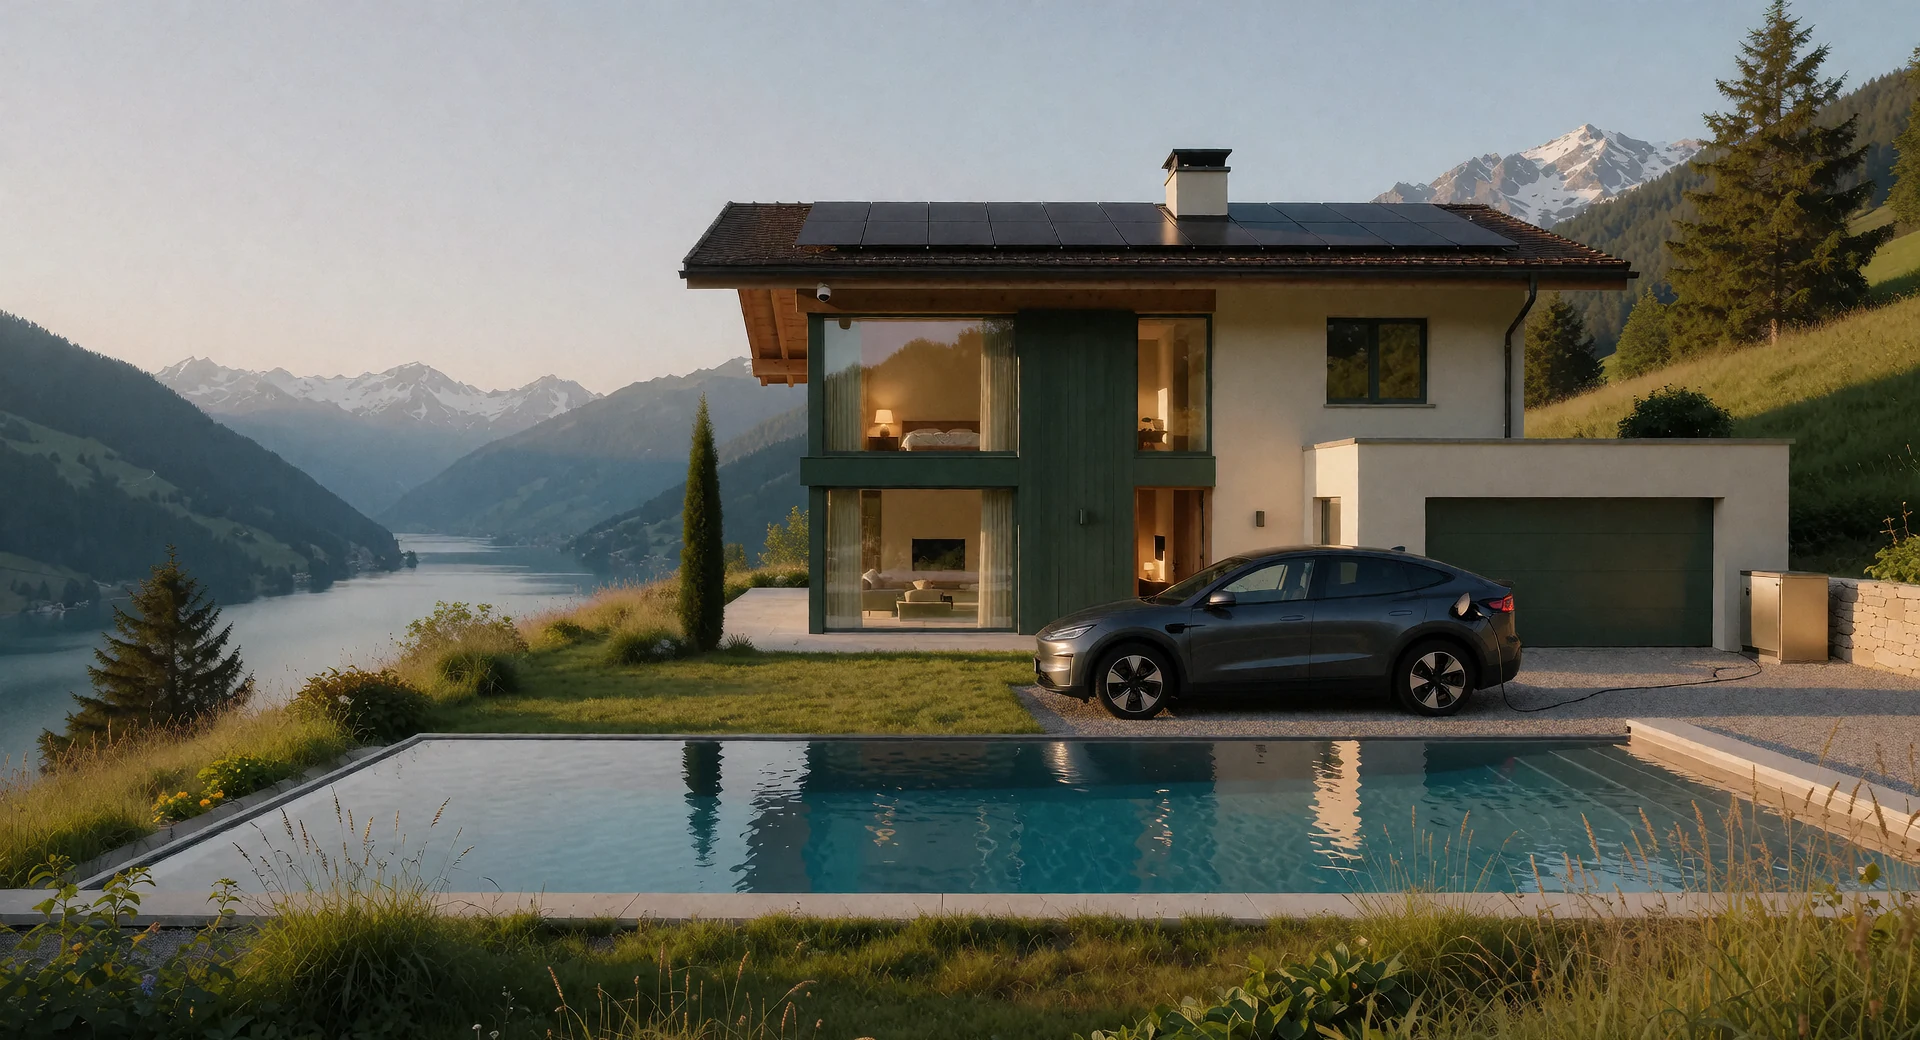
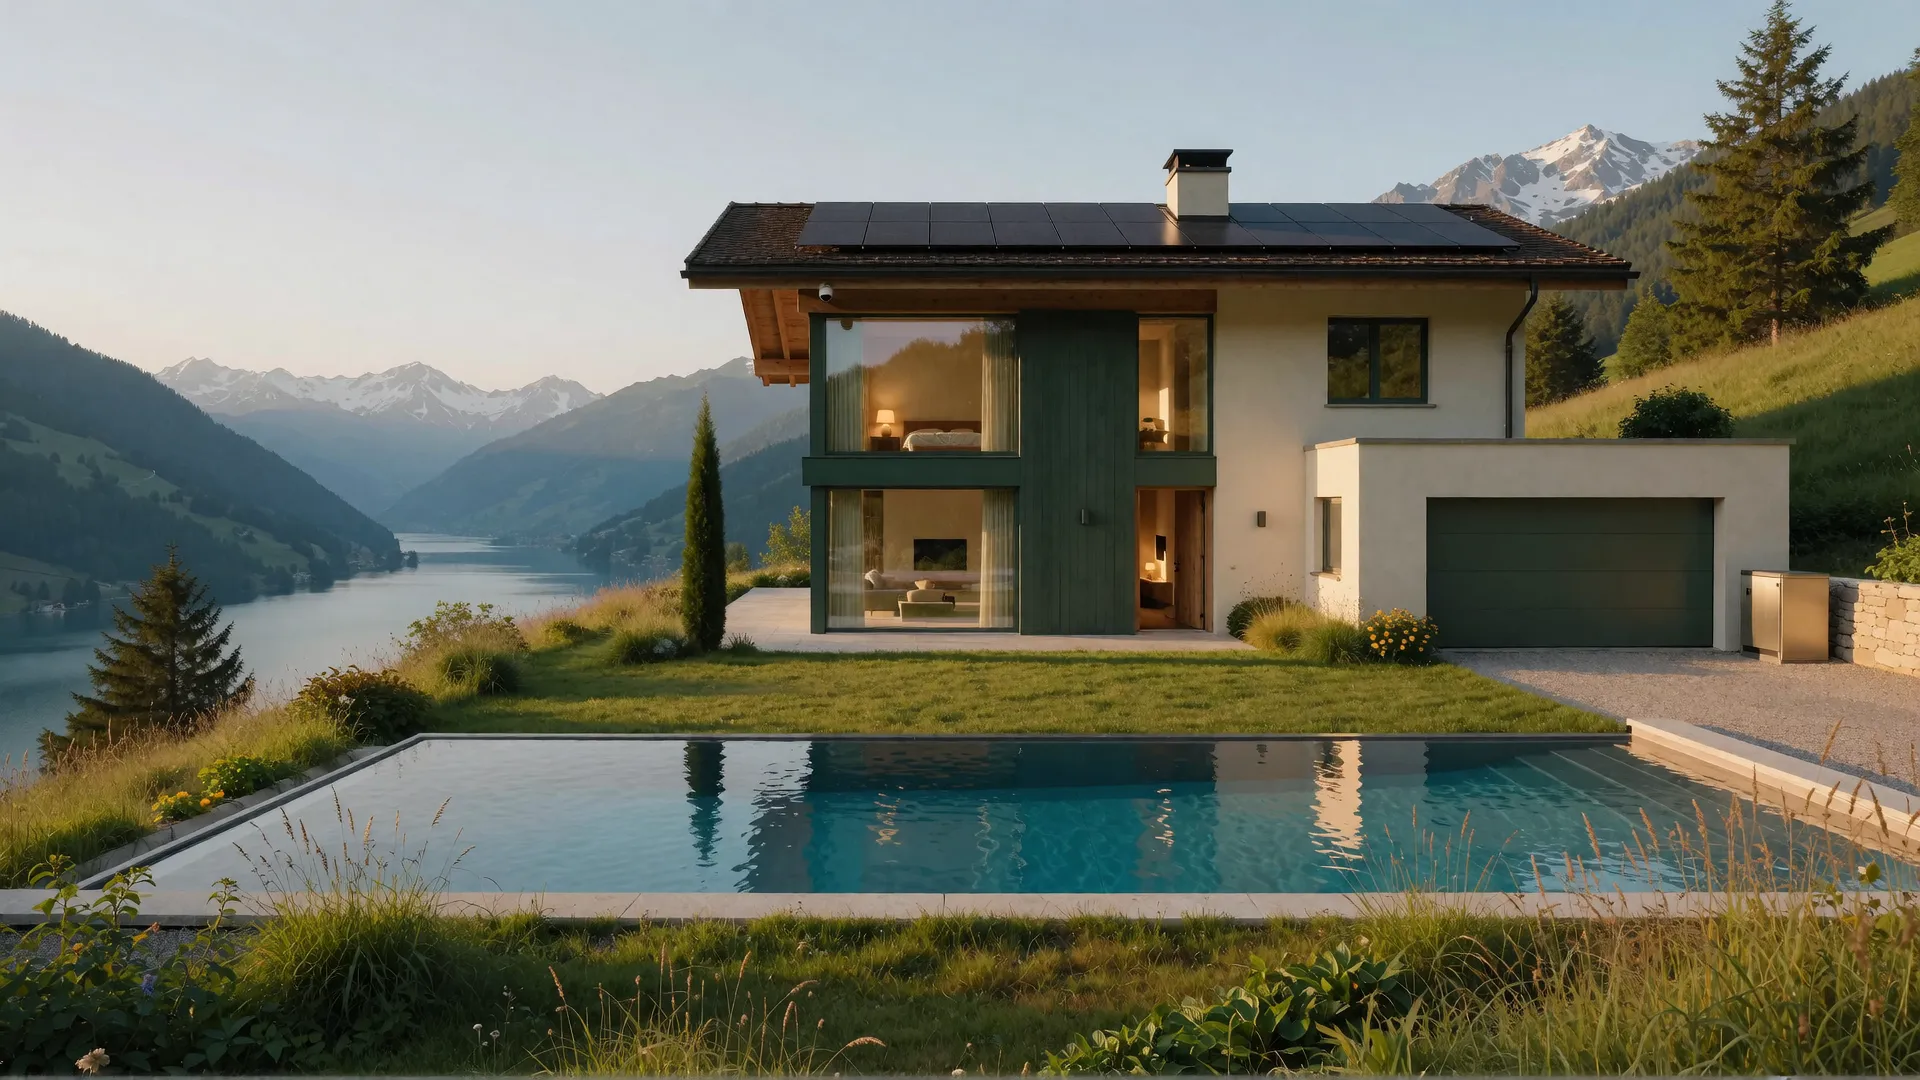
Raccord scene 1 : photo sans la voiture (fichiers d'avant la retouche KREA2)
La voiture ajoutee par 4caff9c ne figure pas dans la 1re video (s1_villa.mp4) :
rupture de raccord photo -> video sur la scene « Tous vos equipements ».

Fichiers restaures a l'octet depuis 37c5f64 (sha256 verifie) :
- s0_villa_ancrage.webp     1920x1080  220 608 o  b3c608cf3759
- s0_villa_ancrage_mob.webp 1920x1080  311 538 o  56b0ad2813b4
(4caff9c avait aussi change le cadre : 1920x1040 non 16:9, la ou la video est 16:9)

Methode de mesure : frame 0 des videos (ffmpeg -frames:v 1) et photo ramenees a
1280x720, ecart MAXIMAL entre canaux du pixel > 30/255 —
  photo restauree : 2,65 %   |   photo SUV : 33,08 %
(en ecart MOYEN des canaux : 1,44 % contre 24,79 %. Deux conventions, meme verdict.)

Une seule URL par photo, cache-bustee ?v=20261016a sur les 5 references : supprime
au passage le double telechargement de la photo mobile (poster video et fond CSS
pointaient sur deux URLs differentes).

Poids mobile signale : la version mobile repasse de 129 094 o a 311 538 o (+141 %).
Ce n'est pas une regression neuve — c'est l'etat du commit 8357494 — mais un vrai
fichier mobile (1280x720) reste a faire.

diff --git a/index.html b/index.html
@@ -133,7 +133,7 @@ img{max-width:100%;display:block}
 .hero-media{position:absolute;inset:0;z-index:0}
 .hero-media .img{position:absolute;inset:0;background-size:cover;background-position:center;opacity:0;transition:opacity 1.2s var(--ease)}
 .hero-media .img.on{opacity:1}
-.hero-media .img.jour{background-image:url('assets/banque/exterieurs/s0_villa_ancrage.webp?v=20261015')}
+.hero-media .img.jour{background-image:url('assets/banque/exterieurs/s0_villa_ancrage.webp?v=20261016a')}
 .hero-media .img.dusk{background-image:url('assets/banque/exterieurs/nexus_krea2_00119_.png')}
 .hero-media .img.nuit{background-image:url('assets/banque/exterieurs/villa_s4_nuit.webp')}
 .hero-scrim{position:absolute;inset:0;z-index:1;background:linear-gradient(180deg,rgba(13,21,32,.12) 0%,transparent 40%,rgba(13,21,32,.7) 100%)}
@@ -971,7 +971,7 @@ body{background:linear-gradient(175deg,#F5F0E8 0%,#FAF6EE 45%,#F1EADF 100%);colo
    (unique case légitime, règle 3 du bloc mobile-fix). Desktop inchangé.
    Mobile = même sujet, 1280px ≥ 3× la densité d'un écran 430px → « ultra HD » préservé. */
 @media (max-width:768px){
-  .film-poster[data-p="0"]{background-image:url('assets/banque/exterieurs/s0_villa_ancrage_mob.webp')!important}
+  .film-poster[data-p="0"]{background-image:url('assets/banque/exterieurs/s0_villa_ancrage_mob.webp?v=20261016a')!important}
   .film-poster[data-p="1"]{background-image:url('assets/banque/interieurs/s2_reseau_f0_mob.webp')!important}
   .film-poster[data-p="2"]{background-image:url('assets/banque/exterieurs/s3_survol_f0_mob.webp')!important}
   .film-poster[data-p="3"]{background-image:url('assets/banque/interieurs/s3_reseau_f0_mob.webp')!important}
@@ -1081,7 +1081,7 @@ body{background:linear-gradient(175deg,#F5F0E8 0%,#FAF6EE 45%,#F1EADF 100%);colo
     <div class="film-sticky">
       <!-- STAGE : 11 stills HD (posters) + 11 clips scrubés -->
       <div class="film-canvas" id="filmCanvas">
-        <div class="film-poster on" style="background-image:url('assets/banque/exterieurs/s0_villa_ancrage.webp')" data-p="0"></div>
+        <div class="film-poster on" style="background-image:url('assets/banque/exterieurs/s0_villa_ancrage.webp?v=20261016a')" data-p="0"></div>
         <div class="film-poster" style="background-image:url('assets/banque/interieurs/s2_reseau_f0.webp')" data-p="1"></div>
         <!-- scène 2 « Intervention Bas-Valais » : s1_aerienne.png retirée sur GO Boss 29/08 (villa pas ANCHOR) -->
         <!-- remplacée 29/08 par la frame 0 du nouveau clip s3_survol (règle Boss : clip neuf sans photo Kréa → frame 0) — calage parfait photo ↔ 1re image de la vidéo -->

diff --git a/mobile.html b/mobile.html
@@ -93,7 +93,7 @@ button{font-family:inherit}
    à moitié ouverte) — même scroller + snap mandatory que les 12 scènes/panneaux/finale ═══ */
 .hero{position:relative;height:100dvh;display:flex;flex-direction:column;justify-content:flex-end;padding:0 20px 118px;overflow:hidden;
   scroll-snap-align:start;scroll-snap-stop:always}
-.hero-bg{position:absolute;inset:0;background:url('assets/banque/exterieurs/s0_villa_ancrage_mob.webp?v=20261015') center/cover no-repeat}
+.hero-bg{position:absolute;inset:0;background:url('assets/banque/exterieurs/s0_villa_ancrage_mob.webp?v=20261016a') center/cover no-repeat}
 .hero-scrim{position:absolute;inset:0;background:linear-gradient(180deg,rgba(10,17,26,.55) 0%,rgba(10,17,26,.1) 34%,rgba(10,17,26,.88) 78%,var(--bg-deep) 100%)}
 .hero-content{position:relative;max-width:560px}
 /* h1 + lead = calibrage VERBATIM réel @375 (index.html L567 + L74) : h1 clamp(2.2rem,12vw,4rem), lead 19px */
@@ -676,7 +676,7 @@ main#film::-webkit-scrollbar{display:none}
 
   <!-- 0 · 07:00 Villa -->
   <section class="sn" data-scene="0">
-    <video class="snv" data-src="videos/s1_villa_mob2.mp4" data-src-h265="videos/s1_villa_mob2_h265.mp4" poster="assets/banque/exterieurs/s0_villa_ancrage_mob.webp" muted playsinline preload="none"></video>
+    <video class="snv" data-src="videos/s1_villa_mob2.mp4" data-src-h265="videos/s1_villa_mob2_h265.mp4" poster="assets/banque/exterieurs/s0_villa_ancrage_mob.webp?v=20261016a" muted playsinline preload="none"></video>
     <div class="sn-scrim"></div>
     <div class="sn-body"><div class="sn-txt">
       <h2>Tous vos <em>équipements</em></h2>
